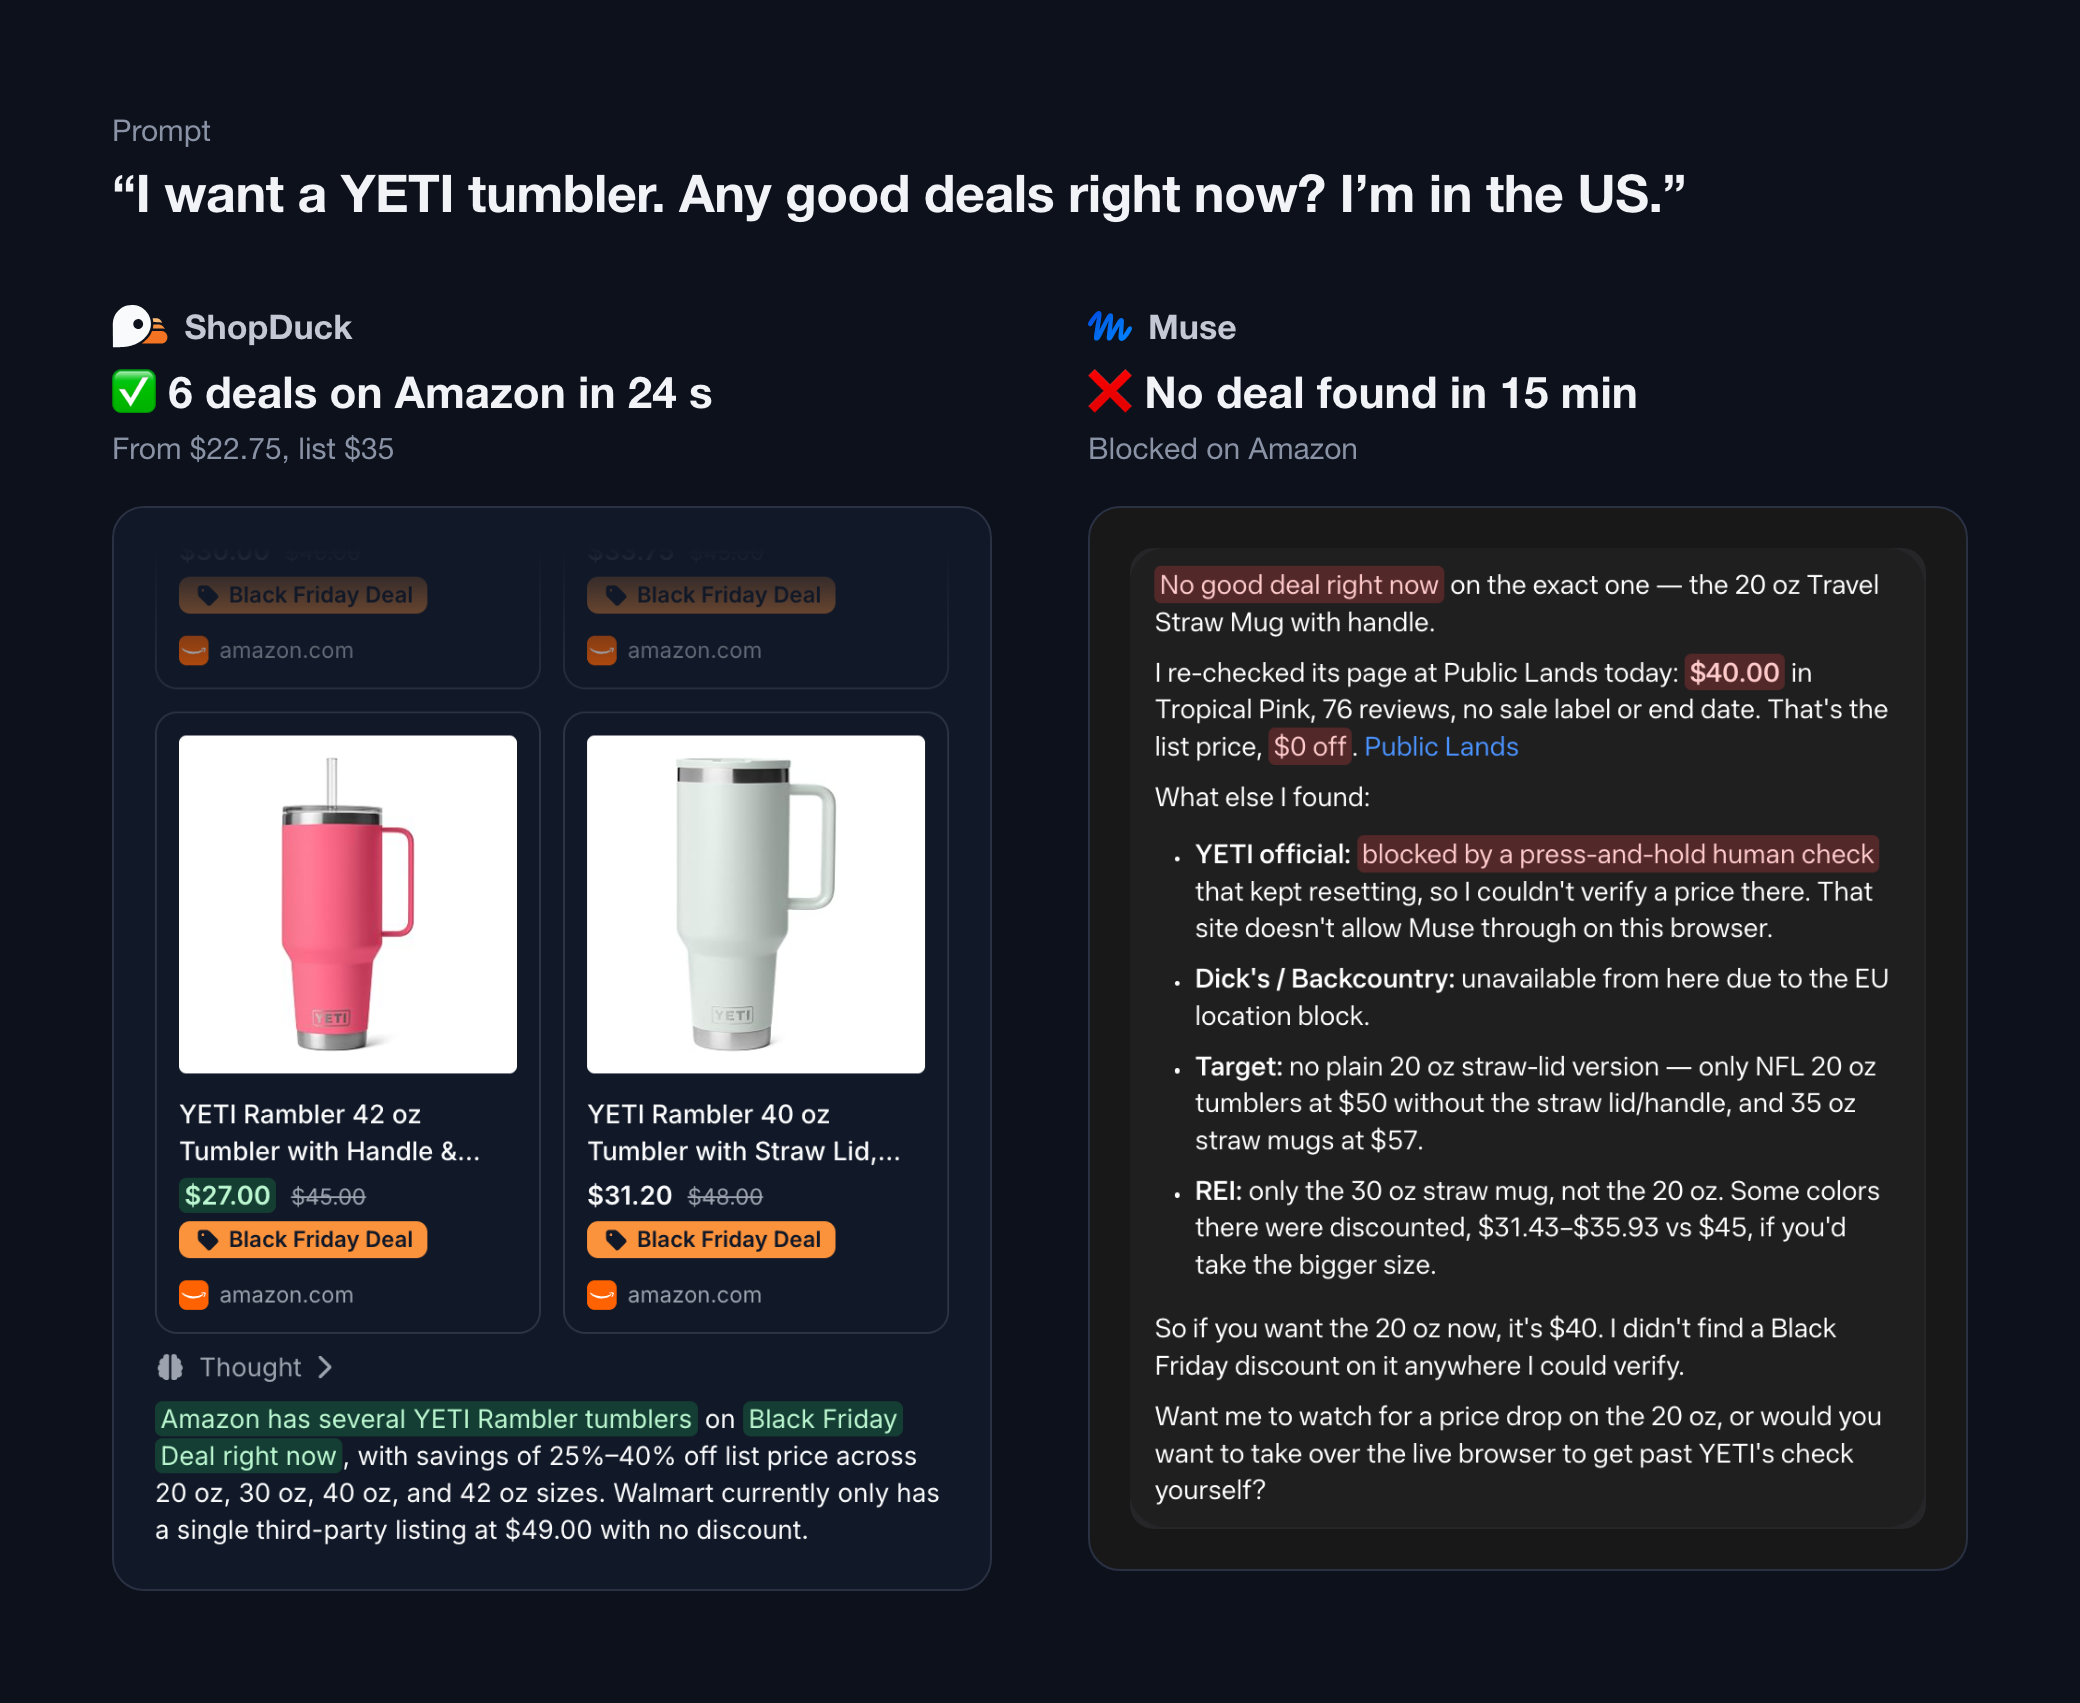
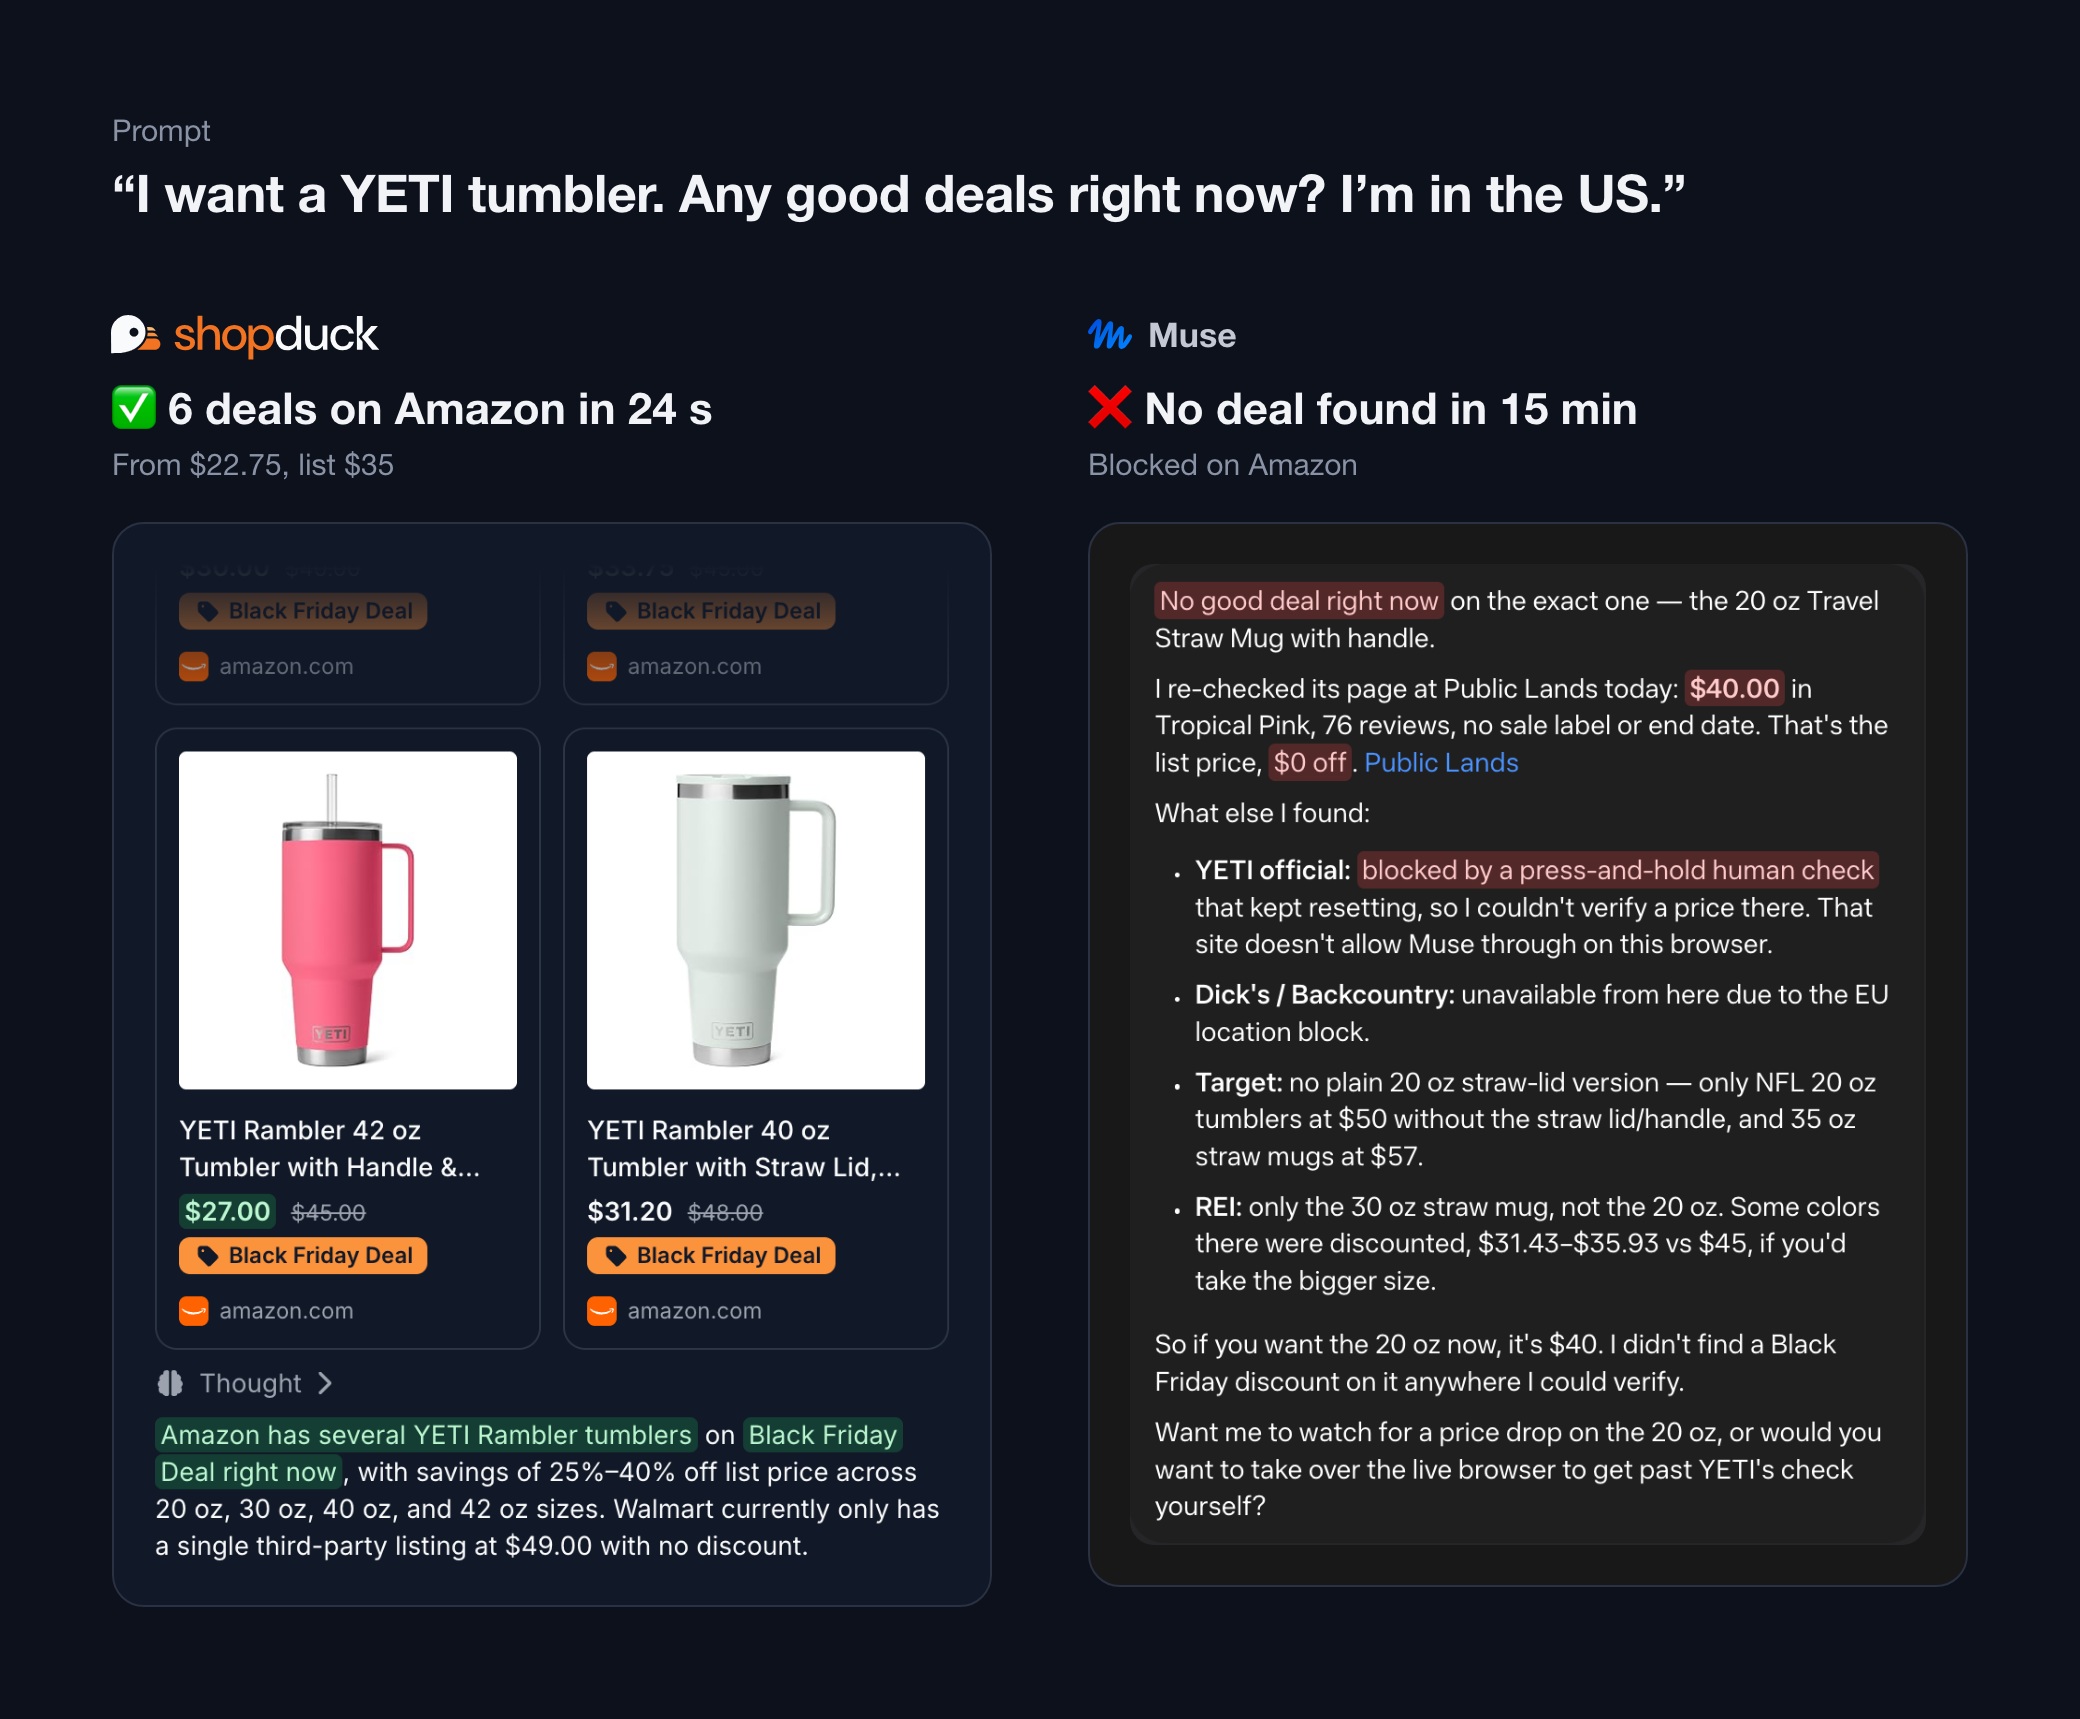
docs(readme): feature roadmap, and the picture uses the shopduck wordmark

diff --git a/README.md b/README.md
@@ -27,7 +27,7 @@ ShopDuck was designed with two goals in mind:
 
 - For end users: build the best agent for shopping.
     - **Highest store coverage**: Amazon, Walmart, Best Buy, Etsy and more, including stores that block other agents.
-    - **Exact data**: prices and deals come from the store's page, read by a script, not guessed from screenshots.
+    - **No hallucinated data**: data like prices are extracted programmatically with scripts versus other agents reading manually.
     - **6x faster than Muse**: ShopDuck runs scripts instead of an agent loop that acts, then reads screenshots.
 - For builders: show with an open-source project how Reduck can be combined with frameworks like Vercel [eve](https://eve.dev) to create harnesses connected to any site.
     - **3x cheaper with Reduck scripts vs manual browsing**: sites are mapped ahead of time into Reduck scripts, so the agent reads no screenshots and generates no browser actions, which takes far fewer tokens.
@@ -44,7 +44,7 @@ ShopDuck was designed with two goals in mind:
     pnpm dev:web
     ```
 
-## Roadmap
+## Feature roadmap
 
 - [ ] Core stores covered
     - [x] Amazon
@@ -60,11 +60,11 @@ ShopDuck was designed with two goals in mind:
     - [ ] Home Depot
     - [ ] Costco
     - [ ] Wayfair
-- [x] Shops in your country: detected on your first visit, changed in the side menu
-- [x] Deals as the store shows them: price, list price, deal label
+- [x] Country detection and setup for relevant suggestions
+- [x] Read only flows like search, product description and review
+- [ ] Write flows like adding to cart and checkout
 - [ ] Memory for shopping preferences
 - [ ] Caching of search / product results
-- [ ] Purchase
 - [ ] Benchmarks with open data and reproducible code
     - [ ] ShopDuck versus B2C agents like Muse
     - [ ] ShopDuck with Reduck versus manual browsing
